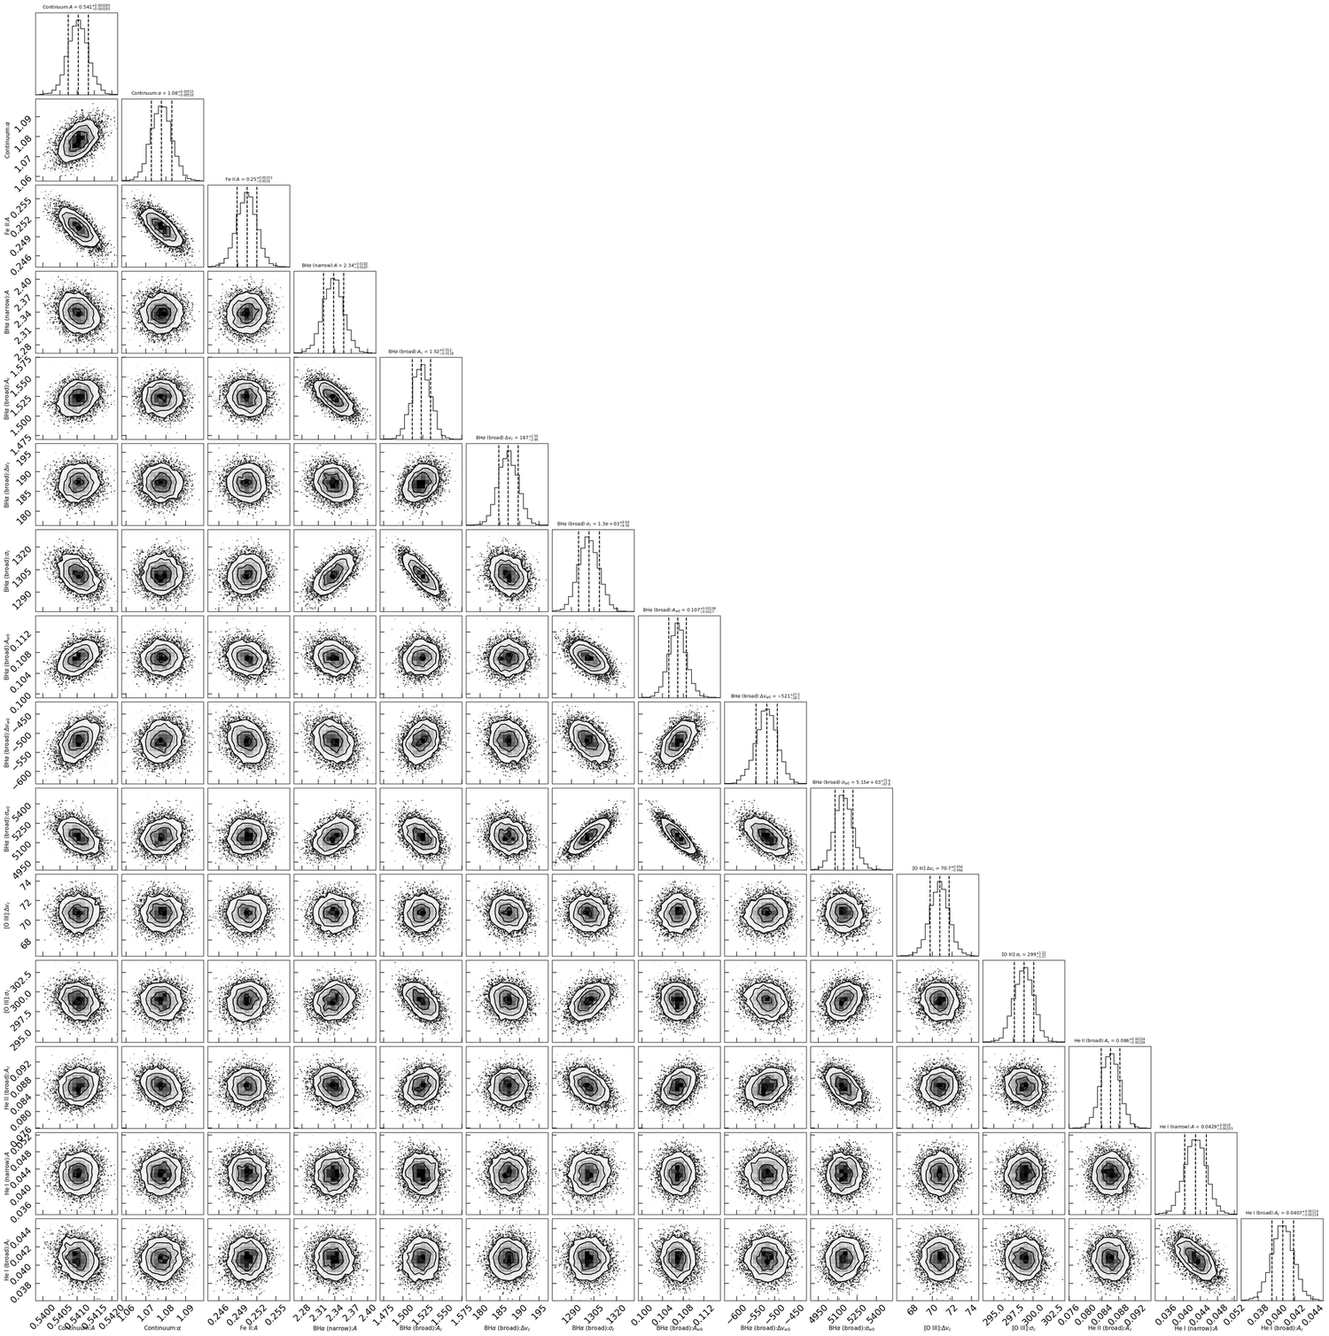
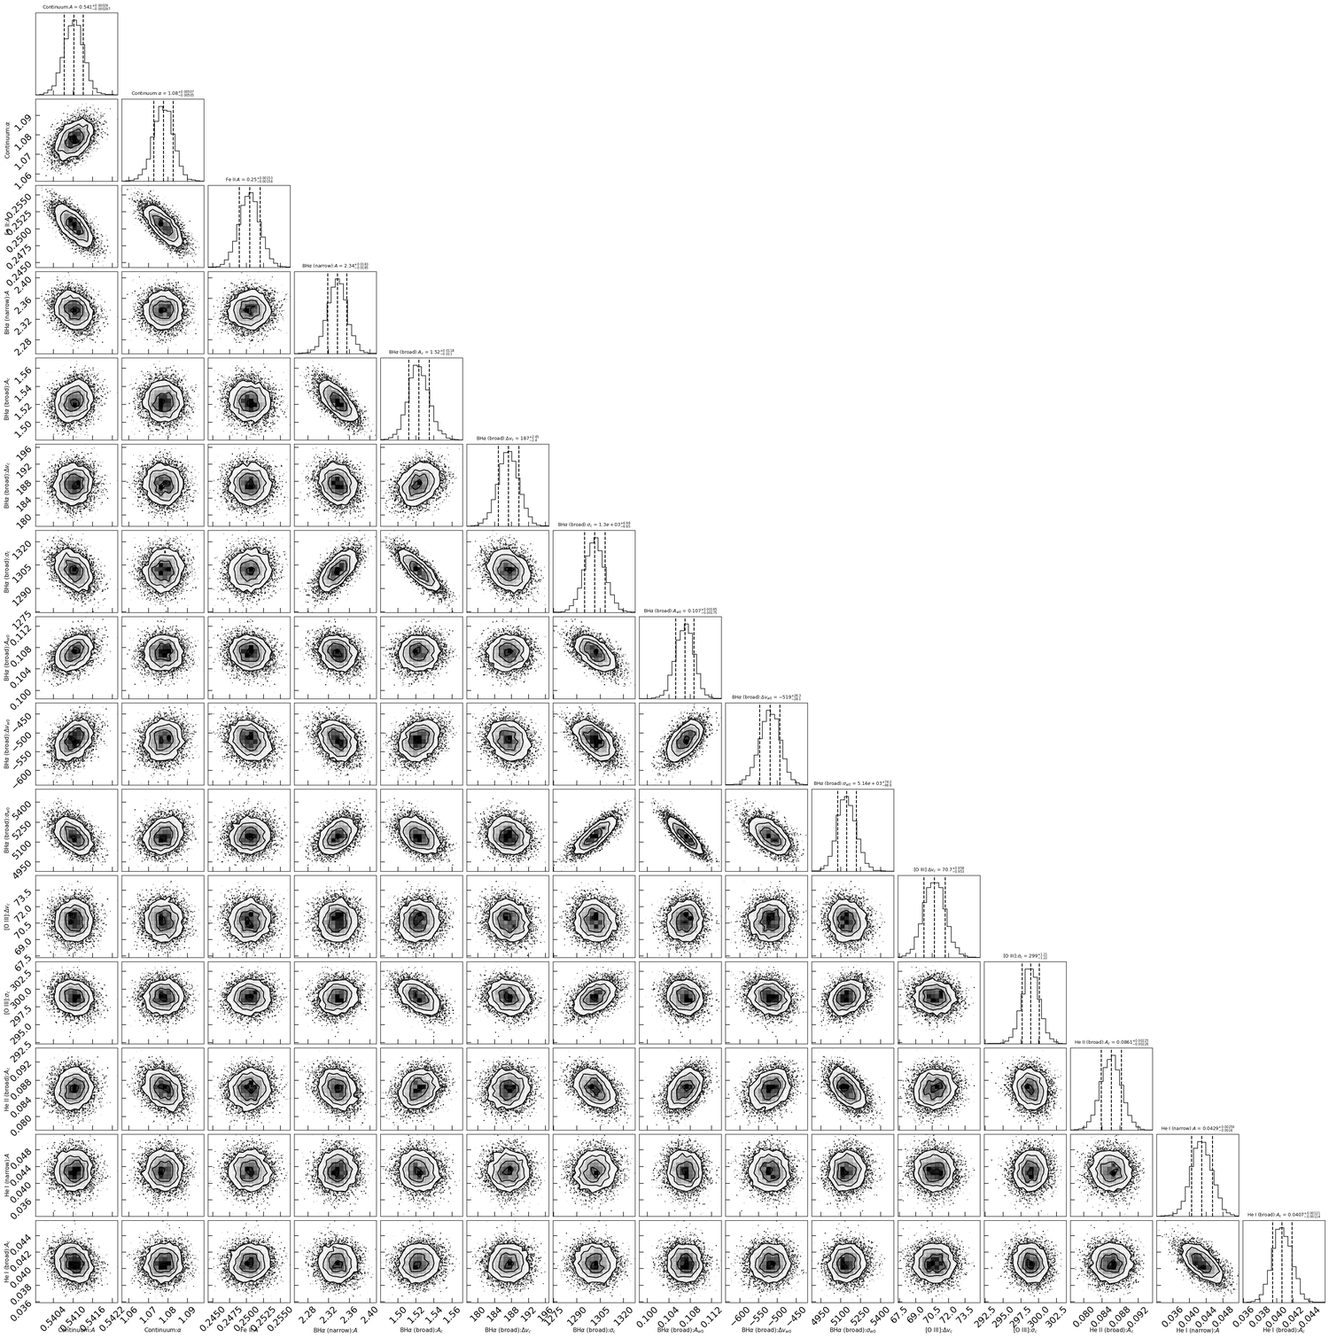
Fit a model, then draw the model that was fitted
Plotting a component evaluated the submodel on its own, and a tied parameter
keeps its construction default until something resolves the tie.  The total
model resolved the ties, so the figure was *internally inconsistent*: on IRAS
07546+3928 the drawn [N II] doublet had the default 700 km/s width instead of the
298 km/s of the [O III] line it is tied to (and its 6548/6583 ratio was the
initial one rather than the tied amplitude).  Measured: the components summed to
chi2/dof 2.97 against the total's 0.307.

The fit was always right -- the likelihood goes through the tie-resolving
evaluator -- so no posterior changed.  What changed:

* JaxCompoundModel.set_free_params() now calls the new sync_tied_values(),
  which writes each tied parameter's resolved value into its leaf.  Astropy
  shares Parameter objects between a compound model and its submodels; this is
  the same guarantee, and ``model['NII'].sigma_c.value`` is now the fitted 298.
  Components sum to the total to 0.0 in double precision, and three regression
  tests hold that (including a chained tie and idempotence).
* galspec.plot._centred_prior_notes() indexed param_map values as integers,
  which crashes for the fits that store (index, name) -- mcmc, and every
  jnesty fit loaded from FITS.  Both shapes now work.
* fit_iras07546_jax_toggle.py regains the broad-H-alpha decomposition figure
  that the docs page embedded and the rewrite had dropped; the P(N) / P(on)
[…]

Changed region(s): [[0.0, 0.0, 1.0, 0.9973]]

diff --git a/tests/test_model_features.py b/tests/test_model_features.py
@@ -414,6 +414,78 @@ def test_fit_exposes_labels():
     print(f"  fit labels: {fit.param_labels[:3]}")
 
 
+def _qualified_theta(model, **overrides):
+    """Free parameter vector addressed by ``Submodel.parameter`` names."""
+    theta = np.asarray(model.get_free_params(), dtype=float).copy()
+    flat = dict(zip(model.qualified_param_names, model.param_names))
+    for qualified, value in overrides.items():
+        theta[model.free_param_names.index(flat[qualified])] = value
+    return theta
+
+
+# --------------------------------------------------------------------------------------
+# 5. Setting the free parameters refreshes the tied ones
+# --------------------------------------------------------------------------------------
+def test_set_free_params_refreshes_tied_values_on_the_leaves():
+    """After a fit a submodel shows the fitted value, as an astropy submodel does.
+
+    Ties are resolved during evaluation, so the *total* model was always right; the
+    leaves kept their construction defaults.  ``plot_fit`` draws a component by
+    evaluating the leaf, so the published figure showed [N II] with the default
+    700 km/s width instead of the 298 km/s it is tied to.
+    """
+    def doublet(name, amp_c0):
+        return jxm.Line_MultiGauss_doublet(n_components=1, amp_c0=amp_c0,
+                                           amp_c1=amp_c0 / 2.96, dv_c=0.0,
+                                           sigma_c=700.0, wavec0=6583.0,
+                                           wavec1=6548.0, name=name)
+
+    o3 = doublet("OIII", 2.0)
+    n2 = doublet("NII", 0.8)
+    n2.dv_c.tied = jxm.tie.tie_MultiGauss_dv_c("OIII")
+    n2.sigma_c.tied = jxm.tie.tie_MultiGauss_sigma_c("OIII")
+    n2.amp_c1.tied = jxm.tie.tie_MultiGauss_doublet_ratio("NII", 2.96)
+    compound = o3 + n2
+
+    theta = _qualified_theta(compound, **{"OIII.amp_c0": 2.0, "OIII.dv_c": 70.0,
+                                          "OIII.sigma_c": 300.0, "NII.amp_c0": 0.8})
+    compound.set_free_params(theta)
+
+    assert np.isclose(float(n2.sigma_c.value), 300.0), n2.sigma_c.value
+    assert np.isclose(float(n2.dv_c.value), 70.0), n2.dv_c.value
+    assert np.isclose(float(n2.amp_c1.value), 0.8 / 2.96), n2.amp_c1.value
+
+    wave = np.linspace(6500.0, 6700.0, 2001)
+    total = np.asarray(compound(wave))
+    parts = sum(np.asarray(compound[name](wave)) for name in compound.submodel_names)
+    assert np.allclose(total, parts, rtol=1e-12, atol=1e-12), \
+        f"components differ from the total by {np.abs(total - parts).max():.3g}"
+
+    # the drawn doublet is the tied one: a 300 km/s Gaussian, not a 700 km/s one
+    y = np.asarray(compound["NII"](wave))
+    above = np.where(y > y.max() / 2.0)[0]
+    fwhm_kms = (wave[above[-1]] - wave[above[0]]) / 6583.0 * LS_KM
+    assert np.isclose(fwhm_kms, 2.3548 * 300.0, rtol=0.05), fwhm_kms
+    print(f"  [N II] drawn at {fwhm_kms:.0f} km/s FWHM, components sum to the total")
+
+
+def test_sync_tied_values_is_idempotent_and_leaves_free_params_alone():
+    line = jxm.Line_MultiGauss(n_components=2, amp_c=1.0, sigma_c=1500.0,
+                               wavec=6563.0, name="b_halpha")
+    other = jxm.Line_MultiGauss(n_components=2, amp_c=0.3, sigma_c=1200.0,
+                                wavec=4862.0, name="b_hbeta")
+    other.sigma_c.tied = jxm.tie.tie_MultiGauss_sigma_c("b_halpha")
+    compound = line + other
+    theta = _qualified_theta(compound, **{"b_halpha.sigma_c": 1234.0})
+    compound.set_free_params(theta)
+    first = dict(compound.param_dict())
+    compound.sync_tied_values()
+    assert compound.param_dict() == first
+    assert np.isclose(float(other.sigma_c.value), 1234.0)
+    assert np.allclose(compound.get_free_params(), theta), "free parameters moved"
+    print("  sync is idempotent and does not touch the free parameters")
+
+
 # --------------------------------------------------------------------------------------
 # 4. Posterior histograms
 # --------------------------------------------------------------------------------------

diff --git a/example/fit_iras07546_jax_toggle.py b/example/fit_iras07546_jax_toggle.py
@@ -79,7 +79,7 @@ WINGED_LINES = ("halpha", "hbeta", "hgamma")
 #: The published fit, for the closing comparison: its own file when it is there, and
 #: the numbers `example/output/` gives when it is not.
 PUBLISHED_FIT = OUTPUT_DIR / "iras07546_jax_fit.fits"
-PUBLISHED = {"free_parameters": 30, "log_evidence": 130894.66, "chi2_dof": 0.307}
+PUBLISHED = {"free_parameters": 30, "log_evidence": 130889.60, "chi2_dof": 0.307}
 
 NLIVE = 1000                   # 40 free parameters: 400 was measured to be too few
 DLOGZ = 0.01
@@ -187,6 +187,47 @@ def sorted_components(fit, floor=MIN_WING_FRACTION, max_samples=2000):
             "flux_fraction": float(np.median(used_fraction)) if used_fraction else 0.0,
         })
     return rows
+
+
+def plot_components(fit, wave, flux, model_best, error, outfile):
+    """The decomposition itself: one curve per component of broad H-alpha."""
+    core_sigma = float(np.median(fit.samples_equal_weight[
+        :, list(fit.full_param_names).index("b_halpha.sigma_c")]))
+    core_dv = float(np.median(fit.samples_equal_weight[
+        :, list(fit.full_param_names).index("b_halpha.dv_c")]))
+    rows = [row for row in sorted_components(fit) if row["n"] >= 1]
+    colours = ["#2b6cb0", "#2f855a", "#b7791f", "#805ad5", "#c53030"]
+    fig, (ax, axr) = plt.subplots(2, 1, figsize=(9.2, 4.8), sharex=True,
+                                  gridspec_kw={"height_ratios": [3, 1], "hspace": 0.06})
+    wavec = plain.LINE_WAVE["Halpha"]
+    x = np.linspace(wavec - 400.0, wavec + 400.0, 1500)
+    sel = (wave > x[0]) & (wave < x[-1])
+    ax.plot(wave[sel], flux[sel], color="0.15", lw=0.8, label="data")
+    core_amp = float(np.median(fit.samples_equal_weight[
+        :, list(fit.full_param_names).index("b_halpha.amp_c")]))
+    core_curve = core_amp * np.exp(-0.5 * ((x - wavec * (1.0 + core_dv / 299792.458))
+                                           / (wavec * core_sigma / 299792.458)) ** 2)
+    ax.plot(x, core_curve, color=colours[0], lw=1.1,
+            label=f"core: FWHM {core_sigma * FWHM:.0f} km/s")
+    for j, row in enumerate(rows):
+        curve = core_amp * row["amp"] * np.exp(
+            -0.5 * ((x - wavec * (1.0 + (core_dv + row["dv"]) / 299792.458))
+                    / (wavec * row["sigma"] / 299792.458)) ** 2)
+        ax.plot(x, curve, color=colours[(j + 1) % len(colours)], lw=1.1, ls="--",
+                label=f"wing: FWHM {row['fwhm']:.0f} km/s, "
+                      f"{row['flux_fraction'] * 100:.0f}% of the flux")
+    ax.set_ylabel(r"$F_\lambda$  [$10^{-14}$ erg s$^{-1}$ cm$^{-2}$ $\AA^{-1}$]")
+    ax.set_title("Broad H-alpha: the components the sampler left switched on",
+                 fontsize=10.5)
+    ax.legend(frameon=False, fontsize=8.5, loc="upper left")
+    axr.axhline(0, color="0.7", lw=0.6)
+    axr.plot(wave[sel], (flux[sel] - np.asarray(model_best(wave))[sel]) / error[sel],
+             color="0.3", lw=0.7)
+    axr.set_ylabel(r"residual / $\sigma$")
+    axr.set_xlabel(r"rest wavelength [$\AA$]")
+    fig.savefig(outfile, dpi=130, bbox_inches="tight")
+    plt.close(fig)
+    return outfile
 
 
 def base_scale():
@@ -399,9 +440,13 @@ def main() -> int:
     right.set_ylim(0, 1.05)
     right.set_title("per-wing posterior probability of being on", fontsize=10)
     fig.tight_layout()
-    fig.savefig(OUTPUT_DIR / f"{PREFIX}components.png", dpi=150, bbox_inches="tight")
+    fig.savefig(OUTPUT_DIR / f"{PREFIX}gates.png", dpi=150, bbox_inches="tight")
     plt.close(fig)
-    print(f"  wrote the figures and {OUTPUT_DIR / f'{PREFIX}components.png'}")
+
+    # and the decomposition itself: what the four components of broad H-alpha look like
+    out = OUTPUT_DIR / f"{PREFIX}components.png"
+    plot_components(fit, wave, flux, model_best, error, out)
+    print(f"  wrote the figures, {OUTPUT_DIR / f'{PREFIX}gates.png'} and {out}")
 
     fit.release_device_buffers()
     return 0

diff --git a/galspec/jax_models/core.py b/galspec/jax_models/core.py
@@ -657,10 +657,19 @@ class JaxCompoundModel(JaxModel):
         return leaf._values[base]
 
     def set_free_params(self, theta) -> "JaxCompoundModel":
+        """Set the free parameters, then refresh every tied one.
+
+        Astropy shares ``Parameter`` objects between a compound model and its
+        submodels, so a submodel always shows the value that was fitted.  Here the
+        leaves keep their own storage and the ties are resolved during evaluation,
+        which left a tied parameter holding its *construction default*: the total
+        model (which does resolve ties) was right while a drawn component was not --
+        a tied [N II] width of 700 km/s instead of the [O III] line's 298.
+        """
         for name, value in zip(self.free_param_names, np.asarray(theta, dtype=float)):
             leaf, _, base = self._lookup_qualified(name)
             leaf._values[base] = float(value)
-        return self
+        return self.sync_tied_values()
 
     def get_free_params(self) -> np.ndarray:
         return self.free_param_values
@@ -678,6 +687,22 @@ class JaxCompoundModel(JaxModel):
             raise RuntimeError("evaluating a compound model with leaves owned by another compound")
         params = {n: resolver.get(node._qualified(n)) for n in node._specs}
         return node.evaluate(x, params)
+
+    def sync_tied_values(self) -> "JaxCompoundModel":
+        """Write each tied parameter's tied value into its leaf.
+
+        The total model and its components then agree by construction, and
+        ``model['NII'].sigma_c.value`` is what the fit produced, as in astropy.
+        """
+        resolver = _Resolver(self, None, use_current=True, resolve_ties=True)
+        pending = []
+        for leaf in self._leaves:
+            for name, spec in leaf._specs.items():
+                if name in leaf._ties and not spec.fixed:
+                    pending.append((leaf, name, float(resolver.get(leaf._qualified(name)))))
+        for leaf, name, value in pending:
+            leaf._values[name] = value
+        return self
 
     def copy(self) -> "JaxCompoundModel":
         """Copy the tree, duplicating leaves (ties/values/bounds preserved)."""

diff --git a/example/fit_iras07546_jax_tied.py b/example/fit_iras07546_jax_tied.py
@@ -318,8 +318,12 @@ def main() -> int:
                   f"volume\n       costs -- so the hard tie is rejected, and the pulls "
                   f"above say where.")
             print(f"       (the published fit's own evidence is stable in nlive: "
-                  f"130 887.64 at 1000 points\n       against 130 894.66 at 400, "
-                  f"i.e. -7 nats -- so this is not a convergence artefact.)")
+                  f"130 887.64 at 1000 points\n       against "
+                  f"{published.log_evidence:.2f} at 400, i.e. "
+                  f"{130887.64 - published.log_evidence:+.0f} nats -- so this is not "
+                  f"a convergence\n       artefact.  Repeating the 400-point run moves "
+                  f"it by a few nats, which is\n       the honest error bar on a single "
+                  f"evidence.)")
     else:
         print(f"    (missing: run example/fit_iras07546_jax.py first)")
 

diff --git a/galspec/plot.py b/galspec/plot.py
@@ -607,8 +607,15 @@ def _centred_prior_notes(fit, flat_names):
     param_map = getattr(fit, 'param_map', None) or {}
 
     def spell(name):
-        if labels is not None and name in param_map:
-            return labels[param_map[name]]
+        # ``param_map`` maps a qualified name to the column index -- either the index
+        # itself (dynesty, nautilus, jax jnesty) or ``(index, name)`` (mcmc, and the
+        # jnesty FITS loader), so both shapes have to work here.
+        entry = param_map.get(name)
+        if entry is None:
+            return name
+        index = entry[0] if isinstance(entry, tuple) else entry
+        if labels is not None:
+            return labels[index]
         return name
 
     notes = []

diff --git a/docs/source/fitting_walkthrough.rst b/docs/source/fitting_walkthrough.rst
@@ -72,7 +72,7 @@ than ``dlogz`` of the evidence may remain unseen.
 
 The run prints its own summary::
 
-          log Z = 130894.66 +- 0.61   (64835 iterations, 9.9 min)
+          log Z = 130889.60 +- 0.62   (66956 iterations, 10.2 min)
        chi2/dof = 0.307, residual rms 0.55 sigma, worst pixel 3.9 sigma
 
 4. Present the results
@@ -93,35 +93,35 @@ they are computed here rather than sampled.
    parameter                  median         -         +  unit
    ----------------------------------------------------------------------------
    Continuum.amplitude       0.54103    0.0003   0.00029  1e-14 erg/s/cm2/A
-   Continuum.alpha            1.0779    0.0052    0.0051
-   FeII.amplitude            0.25047    0.0016    0.0015  1e-14 erg/s/cm2/A
-   n_halpha.amplitude         2.3378     0.019     0.018  1e-14 erg/s/cm2/A
-   b_halpha.amp_c             1.5234     0.012     0.012  1e-14 erg/s/cm2/A
-   b_halpha.dv_c              187.13       2.5       2.5  km/s
-   b_halpha.sigma_c           1301.6       6.8         7  km/s
-   b_halpha.amp_w0           0.10693    0.0017    0.0017  ratio to core
-   b_halpha.dv_w0            -520.82        28        27  km/s
-   b_halpha.sigma_w0          5146.5        68        73  km/s
-   n_hbeta.amplitude            0.59    0.0085    0.0086  1e-14 erg/s/cm2/A
-   b_hbeta.amp_c             0.62655     0.004    0.0039  1e-14 erg/s/cm2/A
-   b_hbeta.amp_w0            0.15936    0.0032    0.0033  ratio to core
-   n_hgamma.amplitude        0.17306    0.0066    0.0068  1e-14 erg/s/cm2/A
-   b_hgamma.amp_c            0.29002    0.0037    0.0038  1e-14 erg/s/cm2/A
-   b_hgamma.amp_w0          0.099937    0.0068    0.0067  ratio to core
-   OIII.amp_c0                1.9274    0.0095    0.0097  1e-14 erg/s/cm2/A
-   OIII.dv_c                  70.745      0.96      0.95  km/s
-   OIII.sigma_c               298.87       1.3       1.2  km/s
-   OIII.amp_w0              0.036356    0.0017    0.0018  ratio to core
-   OIII.sigma_w0              1341.8        45        47  km/s
-   NII.amp_c0                0.75144     0.014     0.014  1e-14 erg/s/cm2/A
-   SII.amp_c0               0.022472    0.0019     0.002  1e-14 erg/s/cm2/A
-   SII.amp_c1                0.05314     0.002     0.002  1e-14 erg/s/cm2/A
-   OI.amp_c0                0.062156    0.0021    0.0022  1e-14 erg/s/cm2/A
-   HeII.amplitude           0.033374     0.004    0.0041  1e-14 erg/s/cm2/A
-   b_heii.amp_c             0.086021    0.0023    0.0022  1e-14 erg/s/cm2/A
-   OIII4363.amplitude       0.045626    0.0044    0.0046  1e-14 erg/s/cm2/A
-   n_hei.amplitude          0.042936    0.0026    0.0025  1e-14 erg/s/cm2/A
-   b_hei.amp_c              0.040697    0.0012    0.0012  1e-14 erg/s/cm2/A
+   Continuum.alpha            1.0778     0.005    0.0051
+   FeII.amplitude            0.25047    0.0015    0.0015  1e-14 erg/s/cm2/A
+   n_halpha.amplitude         2.3372     0.019     0.018  1e-14 erg/s/cm2/A
+   b_halpha.amp_c              1.523     0.011     0.012  1e-14 erg/s/cm2/A
+   b_halpha.dv_c              187.24       2.4       2.4  km/s
+   b_halpha.sigma_c           1301.5       6.6       6.7  km/s
+   b_halpha.amp_w0           0.10704    0.0018    0.0017  ratio to core
+   b_halpha.dv_w0            -519.32        28        26  km/s
+   b_halpha.sigma_w0          5143.4        67        74  km/s
+   n_hbeta.amplitude         0.58991    0.0082    0.0083  1e-14 erg/s/cm2/A
+   b_hbeta.amp_c             0.62641    0.0039    0.0038  1e-14 erg/s/cm2/A
+   b_hbeta.amp_w0            0.15966    0.0034    0.0034  ratio to core
+   n_hgamma.amplitude        0.17306    0.0066    0.0065  1e-14 erg/s/cm2/A
+   b_hgamma.amp_c            0.29017    0.0036    0.0037  1e-14 erg/s/cm2/A
+   b_hgamma.amp_w0          0.099886    0.0062    0.0066  ratio to core
+   OIII.amp_c0                1.9275    0.0095    0.0096  1e-14 erg/s/cm2/A
+   OIII.dv_c                  70.717      0.95      0.96  km/s
+   OIII.sigma_c               298.88       1.2       1.2  km/s
+   OIII.amp_w0              0.036375    0.0017    0.0017  ratio to core
+   OIII.sigma_w0              1343.9        47        47  km/s
+   NII.amp_c0                0.75139     0.014     0.014  1e-14 erg/s/cm2/A
+   SII.amp_c0               0.022533    0.0019    0.0019  1e-14 erg/s/cm2/A
+   SII.amp_c1               0.053145    0.0019    0.0019  1e-14 erg/s/cm2/A
+   OI.amp_c0                0.062106    0.0021    0.0022  1e-14 erg/s/cm2/A
+   HeII.amplitude           0.033405    0.0041    0.0041  1e-14 erg/s/cm2/A
+   b_heii.amp_c             0.086096    0.0023    0.0023  1e-14 erg/s/cm2/A
+   OIII4363.amplitude       0.045406    0.0045    0.0047  1e-14 erg/s/cm2/A
+   n_hei.amplitude           0.04289    0.0024    0.0026  1e-14 erg/s/cm2/A
+   b_hei.amp_c              0.040666    0.0011    0.0012  1e-14 erg/s/cm2/A
 
 The figure: data, model, and residuals in units of the error, with the 1-sigma guides
 drawn so that a good fit is visibly flat and inside them.

diff --git a/docs/source/priors.rst b/docs/source/priors.rst
@@ -287,26 +287,28 @@ prior in ``set_priors`` first. Which is the honest form of the answer -- the ado
 
 The fit itself: 38 free parameters, ``log Z = 132 153.01 +- 0.45`` in 36.6 min,
 ``chi2/dof = 0.261`` against the hard tie's 0.307, so nothing is worse. The evidence
-is **+1258 nats** above the hard tie's 130 894.66, where the eight parameters' own
+is **+1263 nats** above the hard tie's 130 889.60, where the eight parameters' own
 prior volume is worth only +29. The difference is the better fit and not the
 arithmetic: dropping chi2/dof from 0.307 to 0.261 over 56 956 degrees of freedom is
 ``0.5 x 2 620 = +1 310`` nats of likelihood, and 1 310 - 29 = +1 281 against the
-measured +1 258. The two agree to the accuracy of a chi2/dof printed to three digits
+measured +1 263. The two agree to the accuracy of a chi2/dof printed to three digits
 (0.001 of it is 57 nats), which is enough to say where the evidence went: into the
 likelihood, not into prior volume.
 
 A gain that size is worth checking against the sampler before it is quoted, and the
 control is cheap: the published fit rerun at 1000 live points instead of 400 returns
-130 887.64 +- 0.39 against 130 894.66 +- 0.61, a shift of 7 nats, with the same
-posteriors. So the comparison is between two converged runs, and the hard tie is
-rejected at 1265 +- 0.6 nats -- a likelihood gain from a model that was genuinely
-misfitting, not a difference in prior volume.
+130 887.64 +- 0.39 against 130 889.60 +- 0.62, a shift of 2 nats, with the same
+posteriors. Repeating it at 400 points moves it by up to 5 nats (three runs gave
+130 894.66, 130 893.37 and 130 889.60), so the honest error on a single evidence is
+about 5 nats and not the 0.6 the run reports -- still small next to this difference.
+The hard tie is rejected at 1263 +- 6 nats: a likelihood gain from a model that was
+genuinely misfitting, not a difference in prior volume.
 
 One number in that list is a warning about all of them. Releasing the two wing widths
-moves H-alpha's *own* wind width from 5 147 +- 68 to 4 017 +- 14 km/s: 1 130 km/s,
+moves H-alpha's *own* wind width from 5 143 +- 70 to 4 017 +- 14 km/s: 1 126 km/s,
 sixteen times the plain fit's error bar and eighty times the tied one's. It is not the
-sampler -- the plain fit's wind width is stable in ``nlive`` (5 146.5 +- 68 at 400
-points, 5 145.1 +- 70 at 1000), and the tied fit's posterior is not multimodal. It is
+sampler -- the plain fit's wind width is stable in ``nlive`` (5 143 +- 70 at 400
+points, 5 145 +- 70 at 1000), and the tied fit's posterior is not multimodal. It is
 the model. So those error bars are *conditional*: they measure the width of a narrow
 ridge, not the uncertainty of a quantity. The wind's shape is set jointly with the
 balance between core, continuum and wings, and changing how the wings are described
@@ -375,6 +377,12 @@ The recipe, as ``example/fit_iras07546_jax_toggle.py`` applies it:
    :width: 85%
 
    The four components the run reports for broad H-alpha, sorted by width.
+
+.. figure:: _static/example_figures/iras07546_jax_toggle_gates.png
+   :width: 95%
+
+   Where the count comes from: left, the posterior on how many components the profile
+   needs (0.84 for four); right, the probability that each of the three wings is on.
 
 The answer on IRAS 07546+3928: the run asked for at most four broad components and
 returned **four** -- a core plus three wings. In 97% of the 236 466 equally weighted

diff --git a/README.md b/README.md
@@ -203,11 +203,12 @@ consistent with H-alpha's (pulls -0.40 and -0.65 tie widths) and the two **wing*
 components do not: their widths sit against the 8000 km/s ceiling of the width prior
 (pulls +4.94 and +4.91 -- every sample of H-beta's wind above 7895 km/s, where the
 five-width window would have allowed 10 300), and H-gamma's wind shift moves to -4.60.
-The evidence is **1258 nats higher** than the hard tie's rather than the 29 lower a
+The evidence is **1263 nats higher** than the hard tie's rather than the 29 lower a
 needless freedom would cost, and chi2/dof falls from 0.307 to 0.261: over 57 000
 pixels that is about +1300 nats of likelihood against the 29 the extra prior volume
 costs, so the gain is the better fit and not a book-keeping effect (rerunning the hard
-tie with 1000 live points moves its evidence by 7 nats, so both runs are converged).
+tie with 1000 live points moves its evidence by 2 nats, and repeating a run at 400
+moves it by a few, so both are converged to well inside this difference).
 The freedom is spent on the wings, which the fit broadens to a FWHM of ~19 000 km/s --
 one Gaussian absorbing the broad excess that the component-count model above needs
 three wings for (chi2/dof 0.195). So the tie is too strong, but a wider wind is not
